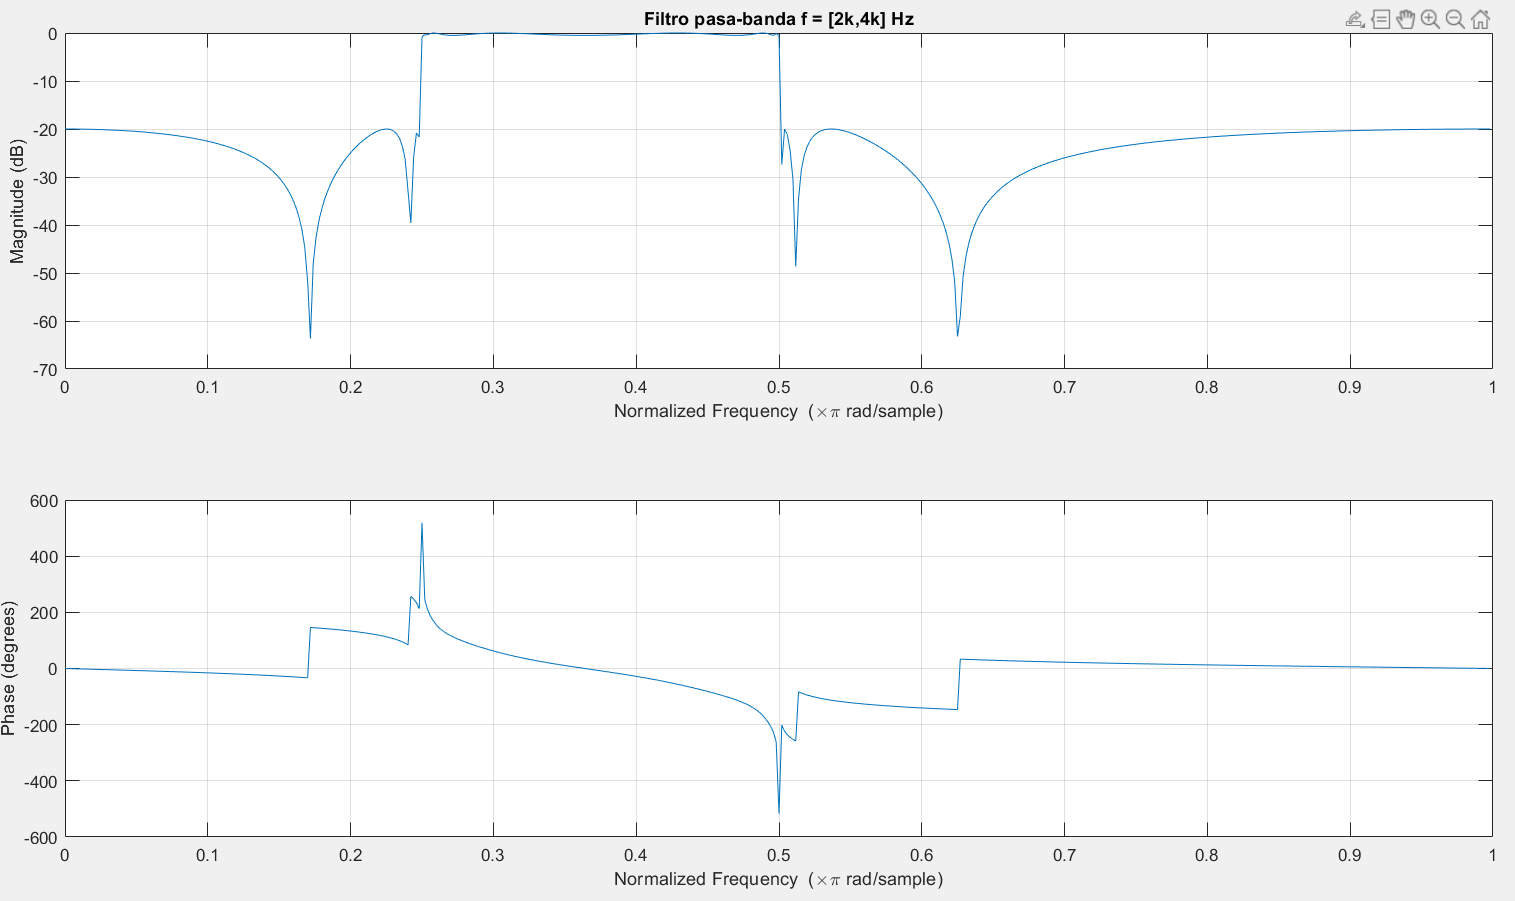
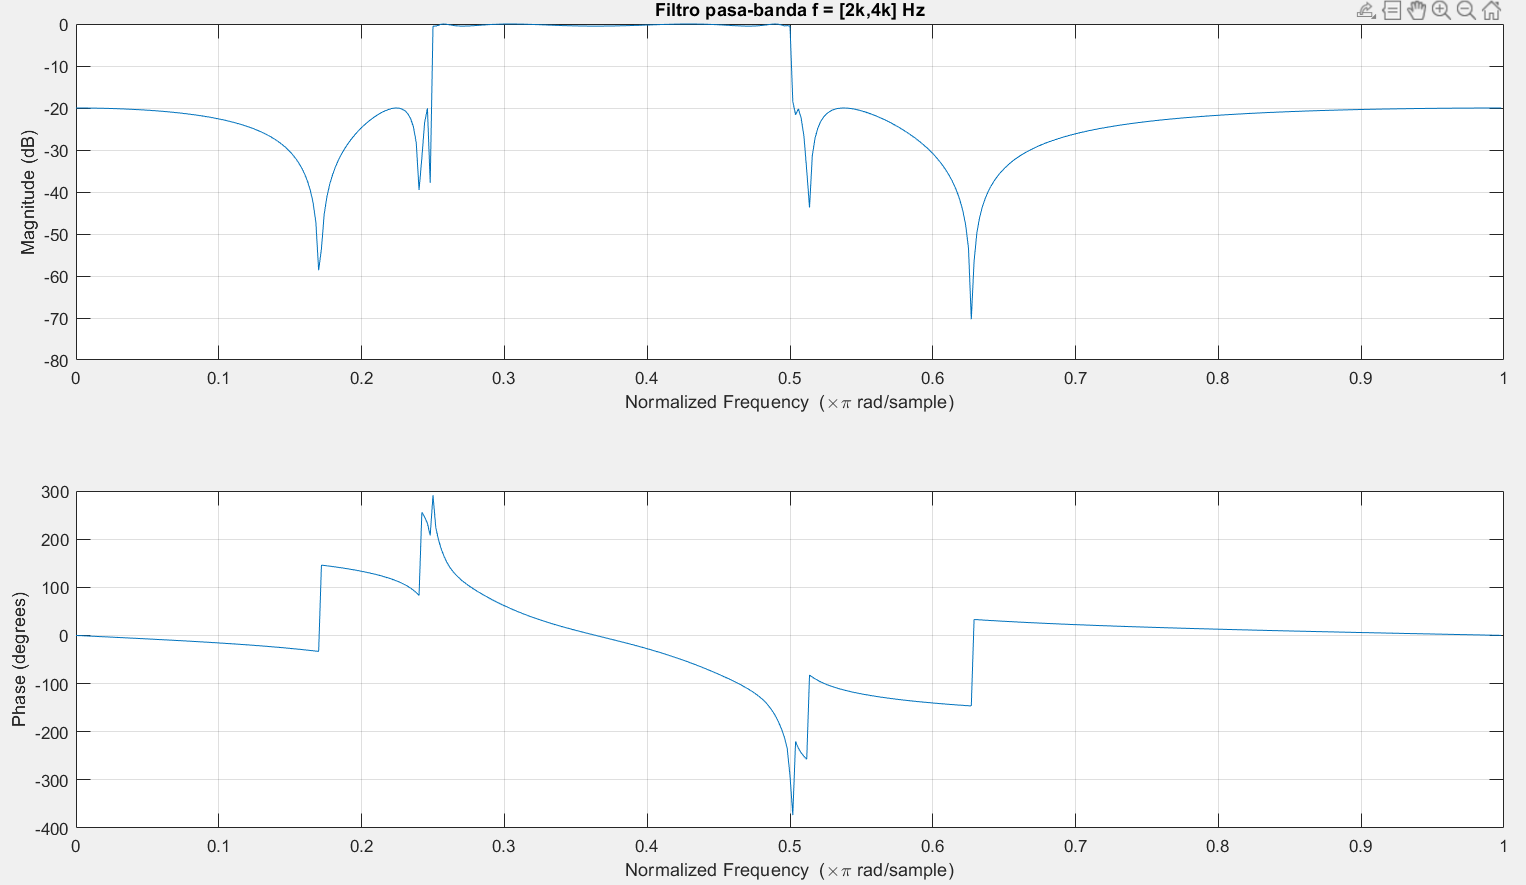
lab3 IV 3)

diff --git a/lab3dsp_G7_Aguilera_Huidobro/LabP1/scripts/Parte4.m b/lab3dsp_G7_Aguilera_Huidobro/LabP1/scripts/Parte4.m
@@ -3,7 +3,7 @@ tm = 16000; %sps -> 2
 %a) 
 fc = 2000; %Hz
 Wp = fc*2/tm ;
-N = 10;
+N = 12;
 Rp = 0.5;
 Rs = 20;
 [B,A] = ellip(N,Rp,Rs,Wp,'low');
@@ -12,7 +12,7 @@ title('Filtro pasabajos fc = 2k Hz');
 %%  b)
 fc = 4000; %Hz
 Wp = fc*2/tm ;
-N = 10;
+N = 12;
 Rp = 0.5;
 Rs = 20;
 [B,A] = ellip(N,Rp,Rs,Wp,'high');
@@ -24,7 +24,7 @@ title('Filtro pasa-altos fc = 4k Hz');
 f1 = 2000; %Hz
 f2 = 4000;
 Wp = [f1*2/tm f2*2/tm];
-N = 10;
+N = 6;
 Rp = 0.5;
 Rs = 20;
 [B,A] = ellip(N,Rp,Rs,Wp);
@@ -36,7 +36,7 @@ title('Filtro pasa-banda f = [2k,4k] Hz');
 f1 = 2000; %Hz
 f2 = 4000;
 Wp = [f1*2/tm f2*2/tm];
-N = 10;
+N = 6;
 Rp = 0.5;
 Rs = 20;
 [B,A] = ellip(N,Rp,Rs,Wp,'stop');
@@ -47,7 +47,7 @@ title('Filtro elimina-banda f = [2k,4k] Hz');
 f1 = 2000; %Hz
 f2 = 4000;
 Wp = [f1*2/tm f2*2/tm];
-N = 4;
+N = 2;
 R = 2;
 [B,A] = cheby1(N,R,Wp);
 freqz(B,A);
@@ -56,9 +56,27 @@ title('Filtro Cheby1 pasa-banda f = [2k,4k] Hz');
 f1 = 2000; %Hz
 f2 = 4000;
 Wp = [f1*2/tm f2*2/tm];
-N = 4;
+N = 2;
 R = 20;
 [B,A] = cheby2(N,R,Wp);
 freqz(B,A);
 title('Filtro Cheby2 pasa-banda f = [2k,4k] Hz');
+
+%% 3)  1
+
+f1 = 800; %Hz
+f2 = 1600;
+Wp = [f1*2/tm f2*2/tm];
+N = 2;
+[B,A] = butter(N,Wp);
+freqz(B,A);
+title('Filtro Butterworth pasa-banda f = [800,1600] Hz');
+
+%% 3) 2
+
+[z,p,k] = butter(4,Wp);
+
+zplane(z,p,k);
+title('Plano Z Filtro Butterworth orden 8');
+
 
